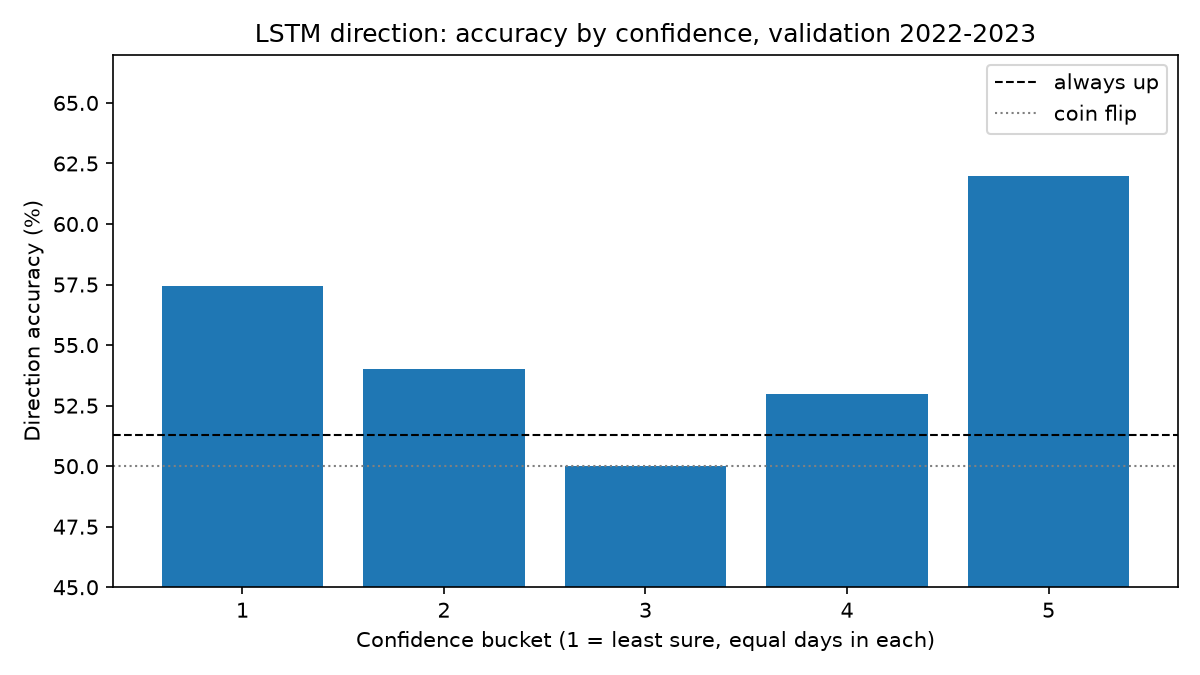
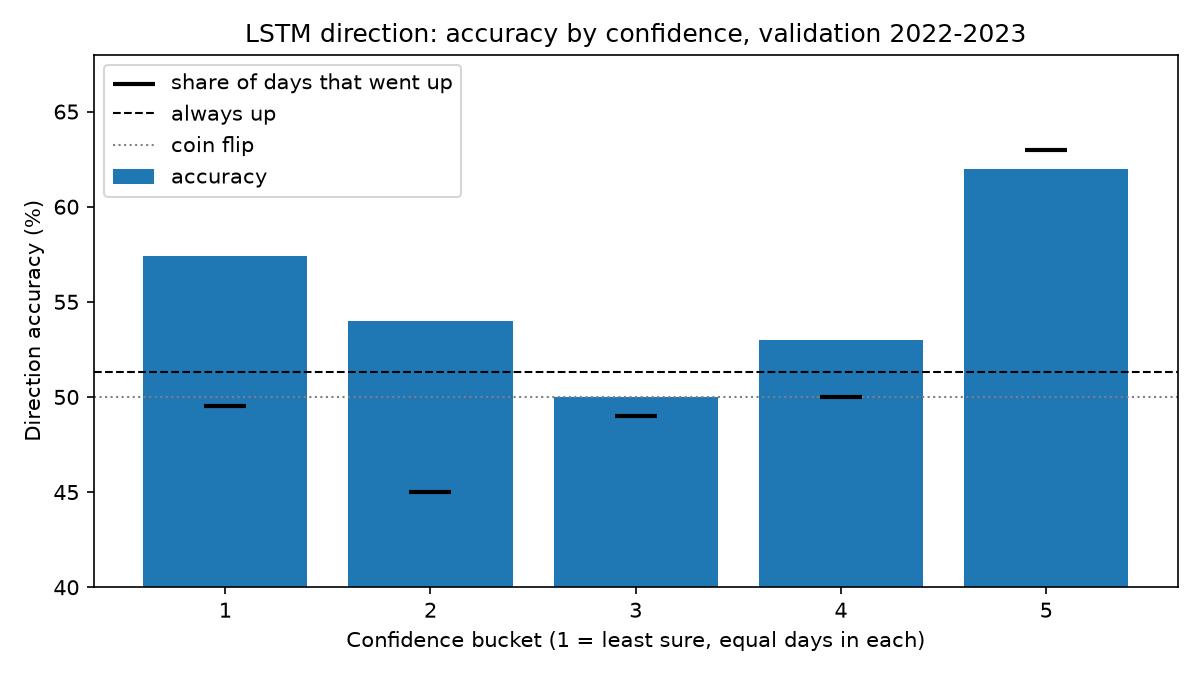
feat(stock-forecast): chart the buy signal, test its surplus for luck, mark bucket up-rates

diff --git a/apps/holdings-and-trade-service/stock-forecast/src/stock_forecast/evaluate.py b/apps/holdings-and-trade-service/stock-forecast/src/stock_forecast/evaluate.py
@@ -298,21 +298,64 @@ def plot_walk_forward(
 
 def plot_confidence(
     table: pd.DataFrame, always_up_rate: float, path: Path, title: str, baseline_label: str = "always up",
-    ylabel: str = "Direction accuracy (%)",
+    ylabel: str = "Direction accuracy (%)", event_rate_label: str | None = "share of days that went up",
 ) -> Path:
-    """Accuracy per confidence bucket, with a constant-answer rate as the bar to clear."""
+    """Accuracy per confidence bucket, with a constant-answer rate as the bar to clear.
+
+    When the table has each bucket's event rate (actual_up_rate or event_rate)
+    it is drawn as a marker on every bar: a bar that merely tracks its marker
+    shows a model that calls the event every day, not one that knows when.
+    """
     fig, ax = plt.subplots(figsize=(8, 4.5))
     labels = [f"{b}" for b in table["bucket"]]
-    ax.bar(labels, table["accuracy"] * 100)
+    ax.bar(labels, table["accuracy"] * 100, label="accuracy")
+    rate_col = next((c for c in ("actual_up_rate", "event_rate") if c in table), None)
+    if event_rate_label and rate_col:
+        ax.scatter(labels, table[rate_col] * 100, color="black", marker="_", s=400, linewidths=2, zorder=3,
+                   label=event_rate_label)
     ax.axhline(always_up_rate * 100, linestyle="--", color="black", linewidth=1, label=baseline_label)
     ax.axhline(50, linestyle=":", color="grey", linewidth=1, label="coin flip")
     ax.set_xlabel("Confidence bucket (1 = least sure, equal days in each)")
     ax.set_ylabel(ylabel)
-    lo = min(table["accuracy"].min(), always_up_rate, 0.5) * 100
-    hi = max(table["accuracy"].max(), always_up_rate) * 100
+    rates = table[rate_col] if rate_col and event_rate_label else table["accuracy"]
+    lo = min(table["accuracy"].min(), rates.min(), always_up_rate, 0.5) * 100
+    hi = max(table["accuracy"].max(), rates.max(), always_up_rate) * 100
     ax.set_ylim(max(0, lo - 5), min(100, hi + 5))
     ax.set_title(title)
     ax.legend()
+    return _save(fig, path)
+
+
+def plot_buy_signal(walk: pd.DataFrame, path: Path, title: str) -> Path:
+    """Per walk-forward year: how often each model's flagged days went up, against every day's up-rate.
+
+    A year with no flagged days gets no bar. The day count sits on each bar
+    so a high rate on a handful of days is not mistaken for a result.
+    """
+    years = sorted(walk["year"].unique())
+    models = list(dict.fromkeys(walk["model"]))
+    width = 0.8 / max(len(models), 1)
+    fig, ax = plt.subplots(figsize=(9, 4.5))
+    x = np.arange(len(years))
+    for i, model in enumerate(models):
+        rows = walk[walk["model"] == model].set_index("year").reindex(years)
+        offset = x + (i - (len(models) - 1) / 2) * width
+        ax.bar(offset, rows["hit_rate"] * 100, width, color=_model_color(model), label=f"{model}: flagged days up")
+        for xi, (rate, n) in zip(offset, zip(rows["hit_rate"], rows["signals"])):
+            if n > 0:
+                ax.annotate(f"{int(n)} d", (xi, rate * 100), xytext=(0, 2), textcoords="offset points",
+                            ha="center", fontsize=7)
+    up = walk.groupby("year")["up_rate"].first().reindex(years)
+    ax.scatter(x, up * 100, color="black", marker="_", s=600, linewidths=2, zorder=3, label="every day's up-rate (bar to clear)")
+    ax.set_xticks(x, [str(y) for y in years])
+    ax.set_xlabel("Test year (cutoff chosen on the year before)")
+    ax.set_ylabel("Share of days that went up (%)")
+    lo = np.nanmin([walk["hit_rate"].min(), up.min()]) * 100
+    hi = np.nanmax([walk["hit_rate"].max(), up.max()]) * 100
+    # Head-room above the tallest bar keeps the legend off the bars.
+    ax.set_ylim(max(0, lo - 8), min(100, hi + 14))
+    ax.set_title(title)
+    ax.legend(fontsize=8, loc="upper left")
     return _save(fig, path)
 
 

diff --git a/apps/holdings-and-trade-service/stock-forecast/tests/test_buy_signal.py b/apps/holdings-and-trade-service/stock-forecast/tests/test_buy_signal.py
@@ -1,12 +1,15 @@
 """Buy signal tests: what a flagged day means, how a cutoff is chosen, and no peeking at the scored year."""
 import math
+import tempfile
 import unittest
 
 import numpy as np
+import pandas as pd
 
-from stock_forecast.buy_signal import (INDICATOR_MODEL, buy_signal_fold, choose_cutoff, signal_metrics,
-                                       validation_cutoffs)
+from stock_forecast.buy_signal import (INDICATOR_MODEL, buy_signal_fold, choose_cutoff, luck_p_value, signal_metrics,
+                                       summarise_signals, validation_cutoffs)
 from stock_forecast.data import add_indicators, split_by_date
+from stock_forecast.evaluate import confidence_buckets, plot_buy_signal, plot_confidence
 from stock_forecast.walk_forward import walk_forward_folds
 from tests.helpers import make_dataset
 
@@ -16,6 +19,7 @@ class SignalMetricTests(unittest.TestCase):
         actual = np.array([0.01, 0.02, -0.01, -0.02])
         m = signal_metrics(actual, np.array([0.7, 0.6, 0.4, 0.3]), cutoff=0.6)
         self.assertEqual(m["signals"], 2)
+        self.assertEqual(m["hits"], 2)
         self.assertEqual(m["signal_rate"], 0.5)
         self.assertEqual(m["hit_rate"], 1.0)
         self.assertEqual(m["up_rate"], 0.5)
@@ -30,6 +34,46 @@ class SignalMetricTests(unittest.TestCase):
     def test_shape_mismatch_is_rejected(self):
         with self.assertRaises(ValueError):
             signal_metrics(np.zeros(3), np.zeros(2), 0.5)
+
+
+class LuckTests(unittest.TestCase):
+    def test_every_flagged_day_up_is_not_luck(self):
+        self.assertLess(luck_p_value(40, 40, 0.5), 1e-9)
+
+    def test_hits_at_expectation_are_about_even_odds(self):
+        self.assertGreater(luck_p_value(50, 100, 0.5), 0.4)
+
+    def test_no_signals_gives_nan(self):
+        self.assertTrue(math.isnan(luck_p_value(0, 0, 0.5)))
+
+    def test_summary_pools_years_and_counts_wins(self):
+        walk = pd.DataFrame([
+            {"year": 2020, "model": "m", "signals": 10, "hits": 6, "up_rate": 0.5, "edge": 0.1},
+            {"year": 2021, "model": "m", "signals": 0, "hits": 0, "up_rate": 0.6, "edge": float("nan")},
+            {"year": 2022, "model": "m", "signals": 10, "hits": 4, "up_rate": 0.5, "edge": -0.1},
+        ])
+        [row] = summarise_signals(walk).to_dict("records")
+        self.assertEqual((row["years"], row["years_with_signal"], row["years_beating_up_rate"]), (3, 2, 1))
+        self.assertEqual((row["flagged_days"], row["hits"], row["expected_hits"]), (20, 10, 10.0))
+        self.assertGreater(row["p_value"], 0.4)
+
+
+class ChartTests(unittest.TestCase):
+    def test_buy_signal_chart_skips_years_without_signals(self):
+        walk = pd.DataFrame([
+            {"year": 2020, "model": "LSTM direction", "signals": 10, "hit_rate": 0.6, "up_rate": 0.5},
+            {"year": 2021, "model": "LSTM direction", "signals": 0, "hit_rate": float("nan"), "up_rate": 0.55},
+        ])
+        with tempfile.TemporaryDirectory() as folder:
+            self.assertTrue(plot_buy_signal(walk, f"{folder}/b.png", "t").exists())
+
+    def test_confidence_chart_draws_each_bucket_up_rate(self):
+        actual = np.array([0.01, -0.01] * 30)
+        buckets = confidence_buckets(actual, np.linspace(0.3, 0.7, 60))
+        self.assertIn("actual_up_rate", buckets)
+        with tempfile.TemporaryDirectory() as folder:
+            self.assertTrue(plot_confidence(buckets, 0.5, f"{folder}/c.png", "t").exists())
+            self.assertTrue(plot_confidence(buckets, 0.5, f"{folder}/d.png", "t", event_rate_label=None).exists())
 
 
 class ChooseCutoffTests(unittest.TestCase):

diff --git a/apps/holdings-and-trade-service/stock-forecast/scripts/extra-buy-signal.py b/apps/holdings-and-trade-service/stock-forecast/scripts/extra-buy-signal.py
@@ -3,7 +3,7 @@
 A day is flagged when P(up) is at or above a cutoff from BUY_SIGNAL_CUTOFFS.
 Walk-forward: each year's cutoff is chosen on the year before and scored on
 the year itself. The validation row shows the cutoff a test run would freeze,
-chosen on 2022-2023. The test years stay sealed. Writes reports/buy_signal.csv;
+chosen on 2022-2023. The test years stay sealed. Writes reports/buy_signal.csv, buy_signal_summary.csv and buy_signal.png;
 --no-lstm runs the indicator regression alone, in seconds.
 """
 import argparse
@@ -12,8 +12,9 @@ import _bootstrap  # noqa: F401
 import pandas as pd
 
 from stock_forecast import config
-from stock_forecast.buy_signal import buy_signal_fold, validation_cutoffs
+from stock_forecast.buy_signal import buy_signal_fold, summarise_signals, validation_cutoffs
 from stock_forecast.data import split_by_date
+from stock_forecast.evaluate import plot_buy_signal
 from stock_forecast.pipeline import load_direction_dataset
 from stock_forecast.walk_forward import run_walk_forward
 
@@ -23,22 +24,22 @@ args = parser.parse_args()
 
 dataset = load_direction_dataset()
 walk = run_walk_forward(dataset, lambda fold: buy_signal_fold(fold, with_lstm=not args.no_lstm))
-walk.insert(1, "split", "walk-forward " + walk["year"].astype(str))
 splits = split_by_date(dataset)
 chosen = pd.DataFrame(validation_cutoffs(splits.train, splits.val, with_lstm=not args.no_lstm))
 chosen.insert(0, "split", f"validation {config.VAL_START[:4]}-{config.VAL_END[:4]} (cutoff chosen here)")
-table = pd.concat([walk.drop(columns="year"), chosen], ignore_index=True)
+logged = walk.drop(columns="year").copy()
+logged.insert(0, "split", "walk-forward " + walk["year"].astype(str))
+table = pd.concat([logged, chosen], ignore_index=True)
 config.REPORTS_DIR.mkdir(parents=True, exist_ok=True)
 table.to_csv(config.BUY_SIGNAL_CSV, index=False)
+plot_buy_signal(walk, config.REPORTS_DIR / "buy_signal.png",
+                "Buy signal: did the days the model flagged go up more often than any day?")
 
 pd.set_option("display.width", 180)
 shown = ["split", "model", "cutoff", "signals", "hit_rate", "up_rate", "edge", "signal_mean_return", "mean_return"]
 print(table[shown].to_string(index=False, float_format=lambda v: f"{v:.4f}"))
 # A year counts only if the signal fired and its flagged days beat that year's up-rate.
-walk["beat_up_rate"] = walk["edge"] > 0
-summary = walk.groupby("model").agg(years_with_signal=("signals", lambda s: int((s > 0).sum())),
-                                    years_beating_up_rate=("beat_up_rate", "sum"),
-                                    flagged_days=("signals", "sum"), mean_edge=("edge", "mean"))
-summary["years"] = walk["year"].nunique()
-print("\nWalk-forward: years where flagged days went up more often than all days")
-print(summary.to_string(float_format=lambda v: f"{v:+.4f}"))
+summary = summarise_signals(walk)
+summary.to_csv(config.BUY_SIGNAL_SUMMARY_CSV, index=False)
+print("\nWalk-forward: flagged days against what each year's up-rate predicts for them")
+print(summary.to_string(index=False, float_format=lambda v: f"{v:.4f}"))

diff --git a/apps/holdings-and-trade-service/stock-forecast/src/stock_forecast/buy_signal.py b/apps/holdings-and-trade-service/stock-forecast/src/stock_forecast/buy_signal.py
@@ -9,6 +9,7 @@ from __future__ import annotations
 
 import numpy as np
 import pandas as pd
+from scipy.stats import binomtest
 
 from . import config
 from .pipeline import direction_baselines, direction_lstm_predictions
@@ -35,6 +36,7 @@ def signal_metrics(actual_returns: np.ndarray, prob_up: np.ndarray, cutoff: floa
     return {
         "days": int(len(actual)),
         "signals": signals,
+        "hits": int(up[flagged].sum()),
         "signal_rate": signals / len(actual) if len(actual) else float("nan"),
         "hit_rate": hit_rate,
         "up_rate": float(up.mean()),
@@ -107,3 +109,37 @@ def validation_cutoffs(train: pd.DataFrame, val: pd.DataFrame, with_lstm: bool =
         m = signal_metrics(actual, prob[:-1], cutoff)
         rows.append({"model": name, "cutoff": cutoff, "chosen_edge": m["edge"], **m})
     return rows
+
+
+def luck_p_value(hits: int, signals: int, expected_rate: float) -> float:
+    """Chance of at least this many up days among the flagged days if flagging were luck.
+
+    One-sided binomial test against expected_rate, the up-rate the same days
+    would have had without the model. Below 0.05 would be hard to call luck.
+    """
+    if signals == 0:
+        return float("nan")
+    return float(binomtest(int(hits), int(signals), float(expected_rate), alternative="greater").pvalue)
+
+
+def summarise_signals(walk: pd.DataFrame) -> pd.DataFrame:
+    """One row per model over the walk-forward years: did flagged days beat ordinary days, and by luck?
+
+    expected_hits is what each year's up-rate predicts for that year's flagged
+    days, summed; p_value tests the pooled hits against that expectation.
+    """
+    walk = walk.assign(expected_hits=walk["signals"] * walk["up_rate"], beat_up_rate=walk["edge"] > 0)
+    summary = walk.groupby("model").agg(
+        years=("year", "nunique"),
+        years_with_signal=("signals", lambda s: int((s > 0).sum())),
+        years_beating_up_rate=("beat_up_rate", "sum"),
+        flagged_days=("signals", "sum"),
+        hits=("hits", "sum"),
+        expected_hits=("expected_hits", "sum"),
+        mean_edge=("edge", "mean"),
+    )
+    summary["p_value"] = [
+        luck_p_value(row.hits, row.flagged_days, row.expected_hits / row.flagged_days) if row.flagged_days else float("nan")
+        for row in summary.itertuples()
+    ]
+    return summary.reset_index()

diff --git a/apps/holdings-and-trade-service/stock-forecast/scripts/0005-export-scorecard.py b/apps/holdings-and-trade-service/stock-forecast/scripts/0005-export-scorecard.py
@@ -53,7 +53,8 @@ if args.model == "lstm-volatility":
     buckets.to_csv(config.REPORTS_DIR / "volatility_confidence_test.csv", index=False)
     plot_confidence(buckets, max(actual.mean(), 1 - actual.mean()),
                     config.REPORTS_DIR / "volatility_confidence_test.png",
-                    "LSTM volatility: accuracy by confidence, test", baseline_label="one answer every day", ylabel="Big-move accuracy (%)")
+                    "LSTM volatility: accuracy by confidence, test", baseline_label="one answer every day", ylabel="Big-move accuracy (%)",
+                    event_rate_label="share of big-move days")
     plot_event_probability(splits.test.index, prob, actual, config.REPORTS_DIR / "volatility_probability_test.png",
                            "LSTM volatility: predicted vs actual big-move days, test", event="big-move day")
     for r in rows:

diff --git a/apps/holdings-and-trade-service/stock-forecast/scripts/0003-train-lstm.py b/apps/holdings-and-trade-service/stock-forecast/scripts/0003-train-lstm.py
@@ -147,7 +147,8 @@ def train_volatility_model(features: list[str]) -> None:
     buckets.to_csv(config.REPORTS_DIR / "volatility_confidence_validation.csv", index=False)
     plot_confidence(buckets, majority, config.REPORTS_DIR / "volatility_confidence_validation.png",
                     "LSTM volatility: accuracy by confidence, validation 2022-2023",
-                    baseline_label="one answer every day", ylabel="Big-move accuracy (%)")
+                    baseline_label="one answer every day", ylabel="Big-move accuracy (%)",
+                    event_rate_label="share of big-move days")
     plot_event_probability(splits.val.index, best.prob_up, actual, config.REPORTS_DIR / "volatility_probability.png",
                            "LSTM volatility: predicted vs actual big-move days, validation 2022-2023",
                            event="big-move day")

diff --git a/apps/holdings-and-trade-service/stock-forecast/src/stock_forecast/config.py b/apps/holdings-and-trade-service/stock-forecast/src/stock_forecast/config.py
@@ -131,6 +131,7 @@ VOLATILITY_RESULTS_CSV = REPORTS_DIR / "volatility_results.csv"
 TEST_VOLATILITY_CSV = REPORTS_DIR / "test_volatility_results.csv"
 WALK_FORWARD_VOLATILITY_CSV = REPORTS_DIR / "walk_forward_volatility.csv"
 BUY_SIGNAL_CSV = REPORTS_DIR / "buy_signal.csv"
+BUY_SIGNAL_SUMMARY_CSV = REPORTS_DIR / "buy_signal_summary.csv"
 MARKET_CONDITIONS_CSV =REPORTS_DIR / "market_conditions.csv"
 AUTOCORRELATION_CSV = REPORTS_DIR / "return_autocorrelation.csv"
 SCORECARD_JSON = REPO_ROOT / "apps" / "client-ui" / "public" / "forecast" / "scorecard.json"

diff --git a/apps/holdings-and-trade-service/stock-forecast/README.md b/apps/holdings-and-trade-service/stock-forecast/README.md
@@ -39,13 +39,13 @@ The direction track is the headline. Each direction model outputs P(up) for the 
 | `brier_skill` | Improvement in squared probability error over quoting the training up-rate | 0 or below |
 | `log_loss` | Cross-entropy of the probabilities; used to choose settings | The base rate's log loss |
 
-Inputs (`DIRECTION_FEATURES`): today's return, SPY's return, volume change, 10-day volatility and 20-day momentum. `data.add_indicators` computes the last two from past rows only and drops the warm-up rows in early 2010. The final training and validation rows carry a label from the next split, so the direction models never fit or early-stop on those labels. Confidence buckets split the scored days into five equal groups by distance from 0.5; accuracy that does not rise with confidence means the probabilities do not tell you which days to trust.
+Inputs (`DIRECTION_FEATURES`): today's return, SPY's return, volume change, 10-day volatility and 20-day momentum. `data.add_indicators` computes the last two from past rows only and drops the warm-up rows in early 2010. The final training and validation rows carry a label from the next split, so the direction models never fit or early-stop on those labels. Confidence buckets split the scored days into five equal groups by distance from 0.5; accuracy that does not rise with confidence means the probabilities do not tell you which days to trust. The confidence charts also mark each bucket's actual event rate, so a bar that only matches its mark is read as a constant call, not skill.
 
 [reports/README.md](reports/README.md) explains every chart for readers without a machine learning background.
 
 ### Buy signal
 
-`buy_signal.py` asks when the direction model would tell a client to buy: a day is flagged when P(up) is at or above a cutoff from `BUY_SIGNAL_CUTOFFS`. The bar is that year's up-rate, not 50%, because buying every day already wins on every up day; `edge` is the flagged days' up-rate minus every day's. A cutoff counts only with at least `BUY_SIGNAL_MIN_DAYS` flagged days and a positive edge; otherwise there is no signal. `scripts/extra-buy-signal.py` chooses each walk-forward year's cutoff on the year before, from one model fit on the years before that, and scores it on the year itself. It also records the cutoff a test run would freeze, chosen on validation; those validation metrics are the days it was chosen on and flatter the rule. It writes `reports/buy_signal.csv`, never reads the test years, and `--no-lstm` runs the indicator regression alone. Nothing in the platform shows this signal to clients.
+`buy_signal.py` asks when the direction model would tell a client to buy: a day is flagged when P(up) is at or above a cutoff from `BUY_SIGNAL_CUTOFFS`. The bar is that year's up-rate, not 50%, because buying every day already wins on every up day; `edge` is the flagged days' up-rate minus every day's. A cutoff counts only with at least `BUY_SIGNAL_MIN_DAYS` flagged days and a positive edge; otherwise there is no signal. `scripts/extra-buy-signal.py` chooses each walk-forward year's cutoff on the year before, from one model fit on the years before that, and scores it on the year itself. It also records the cutoff a test run would freeze, chosen on validation; those validation metrics are the days it was chosen on and flatter the rule. It writes `reports/buy_signal.csv` (one row per year and model), `reports/buy_signal_summary.csv` (one row per model: pooled flagged days, the hits each year's up-rate predicts for them, and a one-sided binomial p-value for the surplus) and `reports/buy_signal.png`. It never reads the test years, and `--no-lstm` runs the indicator regression alone. Nothing in the platform shows this signal to clients.
 
 ## Volatility models
 
@@ -141,7 +141,7 @@ Run from `apps/holdings-and-trade-service/stock-forecast` with the virtual envir
 | 10h | `python scripts/extra-vix-family.py` | `reports/vix_family_comparison.csv` | Week 3, about 30 minutes |
 | 10i | `python scripts/extra-horizons.py` | `reports/horizon_comparison.csv` | Week 3; seconds with `--no-lstm`, about 30 minutes with the LSTM |
 | 10j | `python scripts/extra-platform-spike.py` | `reports/platform_spike.csv` and `.png` | Any time; under a minute |
-| 10k | `python scripts/extra-buy-signal.py` | `reports/buy_signal.csv` | Any time before the test run; seconds with `--no-lstm`, minutes with the LSTM |
+| 10k | `python scripts/extra-buy-signal.py` | `reports/buy_signal.csv`, `buy_signal_summary.csv` and `buy_signal.png` | Any time before the test run; seconds with `--no-lstm`, minutes with the LSTM |
 | 11 | `python scripts/0005-export-scorecard.py --model lstm-direction` | `reports/test_results.csv`, `reports/test_direction_results.csv`, test confidence charts, real `scorecard.json` | Once, Oct 22, after the final review |
 | 12 | `python scripts/0005-export-scorecard.py --model lstm-volatility` | `reports/test_volatility_results.csv`, test volatility charts; no scorecard | Once, Oct 22, after the final review |
 

diff --git a/apps/holdings-and-trade-service/stock-forecast/reports/README.md b/apps/holdings-and-trade-service/stock-forecast/reports/README.md
@@ -79,7 +79,7 @@ The direction LSTM beat "always up" in only 2 of 6 years, averaging 52.8% agains
 
 **`direction_probability.png`**: the model gives a probability that tomorrow is up. The dashed line is its average probability over 20 days; the solid line is how often the stock actually went up over the same 20 days. The model's line stays close to 50 to 60% and moves far less than reality, meaning it mostly hedges.
 
-**`direction_confidence_validation.png`**: days are sorted into five equal groups, from the days the model was least sure (1) to the days it was most sure (5). If the model knew when to trust itself, the bars would rise from left to right. They do not: group 1 scored 57% and group 3 scored 50%, so its confidence is not a reliable guide.
+**`direction_confidence_validation.png`**: days are sorted into five equal groups, from the days the model was least sure (1) to the days it was most sure (5). If the model knew when to trust itself, the bars would rise from left to right. They do not: group 1 scored 57% and group 3 scored 50%, so its confidence is not a reliable guide. The black mark on each bar is the share of that group's days that actually went up. From group 3 on, the model says "up" on more than 90% of days, so its bar can only match its mark: group 5's 62% is the 63% of those days that went up, not skill. The only groups where the bar clears the mark are 1 and 2, where the model still says "down" on about a third of days and is right more often than not.
 
 **`lstm_direction_loss.png`**: how the model's error changed while it learned. Training error (blue) keeps falling, but validation error (orange) starts rising after about 8 rounds. That means the model began memorising the training years instead of learning something general, so training stopped and the best earlier version was kept.
 
@@ -87,7 +87,9 @@ The direction LSTM beat "always up" in only 2 of 6 years, averaging 52.8% agains
 
 **`buy_signal.csv`**: a "buy" flag goes up on days the model's probability of an up day is at or above a cutoff, such as 58%. The cutoff for each year is picked using only the year before, then tested on the year itself. A flag is useful only if flagged days go up more often than an ordinary day, because buying every day already catches every up day.
 
-The direction LSTM's flagged days beat an ordinary day in 4 of 6 years (2018-2023), but only by about one point on average: 258 of its 464 flagged days went up, about 5 more than buying on any 464 days of the same years would have caught. That is well within luck. The best cutoff also moved from year to year (52% to 58%), so there is no stable rule. The simpler indicator regression did worse: no flags at all in two years, and a better-than-ordinary result in only 2 of 6.
+**`buy_signal.png`**: one pair of bars per year. Each bar is the share of a model's flagged days that went up, with the number of flagged days written on it; the black mark is the share of every day that year that went up, the bar to clear. A bar below its mark means a client following the flags would have picked worse days than buying at random.
+
+The direction LSTM's flagged days beat an ordinary day in 4 of 6 years (2018-2023), but only by about one point on average: 258 of its 464 flagged days went up, against 253 expected from each year's up-rate (`buy_signal_summary.csv`). If flagging were pure luck, a surplus at least that large would happen one time in three (p = 0.33), so it is not evidence of skill. The best cutoff also moved from year to year (52% to 58%), so there is no stable rule. The simpler indicator regression did worse: no flags at all in two years, a better-than-ordinary result in only 2 of 6, and fewer hits than luck predicts (p = 0.68).
 
 The validation row shows a 62% cutoff with 77% of 26 flagged days going up. Those are the same days the cutoff was picked on, so that number flatters the rule and is not evidence. **The model is not good enough to tell a client to buy, and the platform does not do so.**
 
